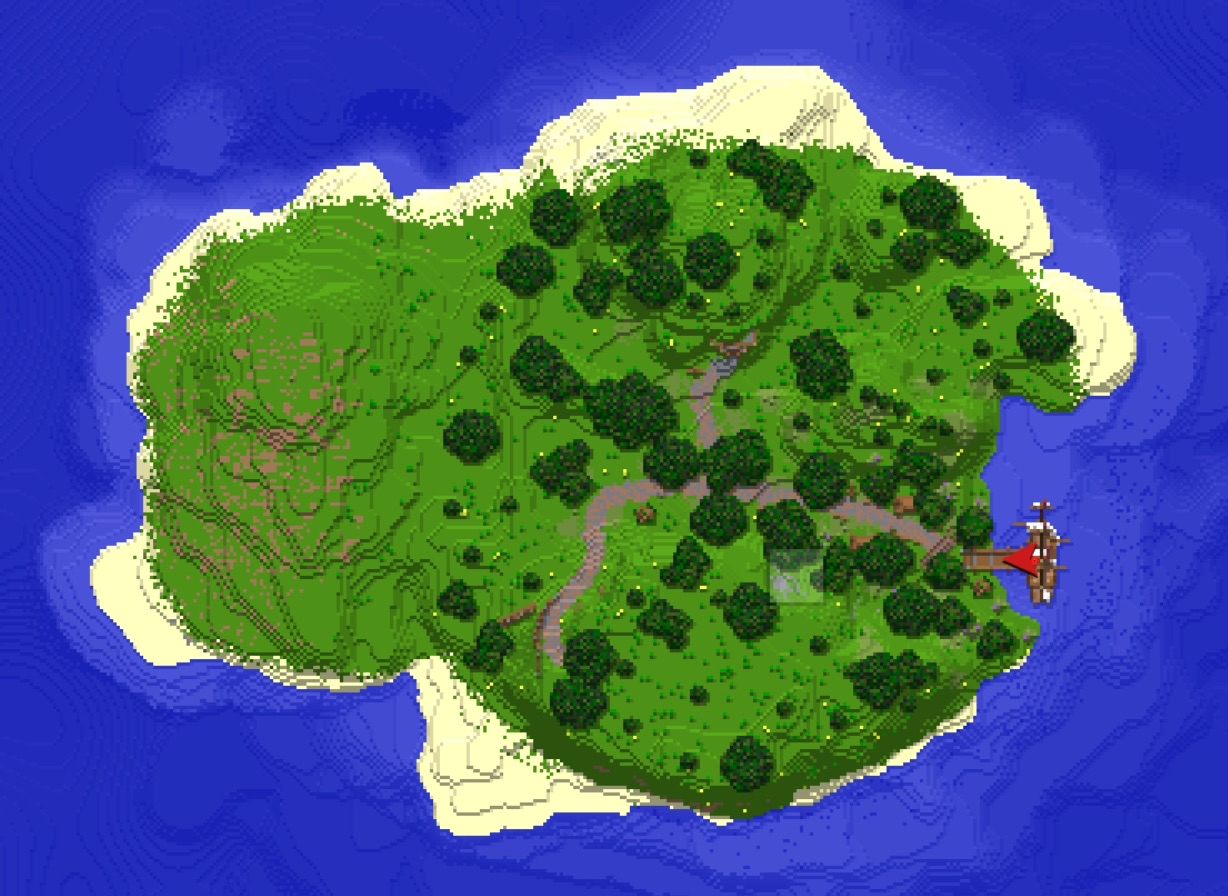
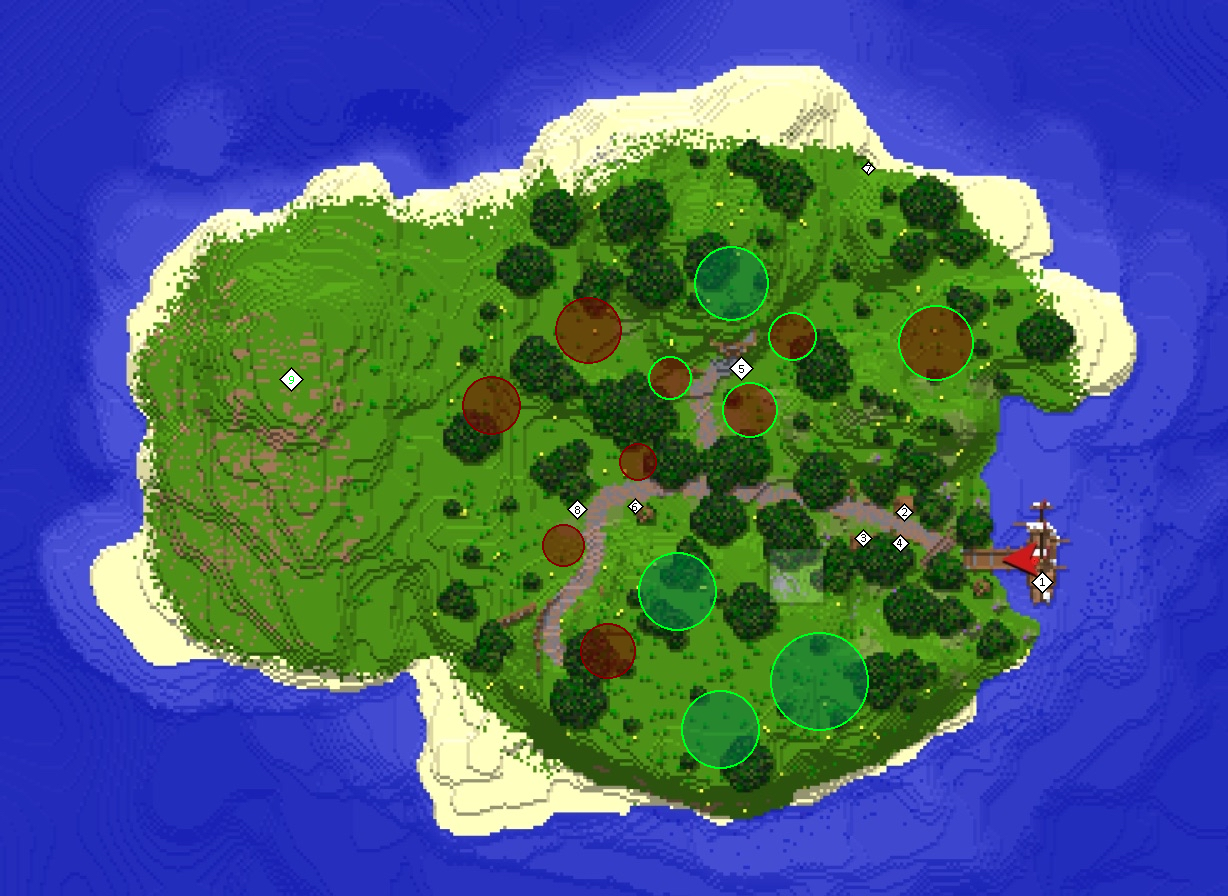
위르드 위키 섬 안내 npc 및 몬스터 데이터 추가, 지도 사진 업데이트(세르툼~변형된 플라텀)

diff --git a/wyrd_wiki_homepage/pages/island/island_data.js b/wyrd_wiki_homepage/pages/island/island_data.js
@@ -17,7 +17,27 @@ const ISLAND_DATA = [
         icon: 'island1.png',
         position: { x: 45, y: 41, tooltip: 'right' }, //  지도 상 위치 (추후 조정) 
         details: {
-            npcs: [] // NPC 정보 없음
+            npcs: [
+                { name: '항해사', coords: '-216 82 10 ①' },
+                { name: '낚시꾼', coords: '-162 80 -32 ②' },
+                { name: '아리아', coords: '-180 81 -98 ③' },
+                { name: '미식가', coords: '-127 80 10 ④' },
+                { name: '직업관리인(1차)', coords: '-55 87 25 ⑤' },
+                { name: '만물상', coords: '-36 80 45 ⑥' },
+                { name: '포션 상인', coords: '-6 80 65 ⑦' },
+                { name: '전리품 상인', coords: '1 80 49 ⑧' },
+                { name: '아르테, 오브세공사', coords: '-33 84 18 ⑨' },
+                { name: '메리, 길드 보급관, 재화 교환원, 칼론', coords: '-45 83 -8 ⑩' },
+                { name: '시험 감독관, 훈련 감독관', coords: '31 79 -75 ⑪' },
+                { name: '스폰', coords: '-17 85 123 ⑫' },
+                { name: '대장장이 조수, 대장장이', coords: '57 85 102 ⑬' },
+                { name: '창고지기', coords: '-26 79 39 ⑭' },
+                { name: '게시판', coords: '16 79 28, -16 79 50 ⑮' },
+                { name: '오즈웰', coords: '35 82 53 ⑯' },
+                { name: '무역 관리자, 카페 주인', coords: '164 81 -95 ⑰' },
+                { name: '라이딩 관리인', coords: '-51 86 73 ⑱' },
+                { name: '엘리시아', coords: '-50 82 -74 ⑲' }
+            ]
         }
     },
     {
@@ -37,7 +57,24 @@ const ISLAND_DATA = [
         },
         icon: 'island2.png',
         position: { x: 32, y: 49, tooltip: 'right' },
-        details: { npcs: [] }
+        details: {
+            npcs: [
+                { name: '항해사', coords: '161 90 151 ①' },
+                { name: '포션 상인, 전리품 상인', coords: '121 89 133 ②' },
+                { name: '낚시꾼', coords: '108 89 139 ③' },
+                { name: '게시판', coords: '123 89 144 ④' },
+                { name: '리네', coords: '70 89 91 ⑤' },
+                { name: '엘레오', coords: '39 94 131 ⑥' },
+                { name: '파란 꽃', coords: '107 84 28 ⑦' }
+            ],
+            monsters: [
+                { name: '위브', coords: '상세 지도 내 초록색 원' },
+                { name: '소심한 보어', coords: '상세 지도 내 갈색 원' },
+                { name: '트리소울', coords: '상세 지도 내 초록색+갈색 원' },
+                { name: '소심한 보어의 은신처 필드웨이브', coords: '20 94 132 ⑻' },
+                { name: '돌연변이 보어 서식지 필드웨이브', coords: '-62 103 92 ⑼' }
+            ]
+         }
     },
     {
         id: 'island3',
@@ -56,7 +93,23 @@ const ISLAND_DATA = [
         },
         icon: 'island3.png',
         position: { x: 38, y: 25, tooltip: 'right' },
-        details: { npcs: [] }
+        details: {
+            npcs: [
+                { name: '항해사', coords: '-242 100 144 ①' },
+                { name: '낚시꾼', coords: '-270 102 167 ②' },
+                { name: '전리품 상인, 포션 상인', coords: '-245 104 181 ③' },
+                { name: '게시판', coords: '-236 106 194 ④' },
+                { name: '로빈', coords: '-303 121 326 ⑤' },
+                { name: '와이먼', coords: '-367 113 281 ⑥' },
+                { name: '민들레', coords: '393 161 425 ⑦' }
+            ],
+            monsters: [
+                { name: '주황 버섯', coords: '상세 지도 내 주황색 원' },
+                { name: '겁쟁이 보어', coords: '상세 지도 내 갈색 원' },
+                { name: '가을 위브', coords: '상세 지도 내 빨간색 원' },
+                { name: '가을의 전율 필드웨이브', coords: '-344 107 328 ⑻' }
+            ]
+        }
     },
     {
         id: 'island4',
@@ -153,17 +206,34 @@ const ISLAND_DATA = [
         position: { x: 72, y: 65, tooltip: 'left' },
         details: {
             npcs: [
-                { name: '대장장이', coords: '677 73 254' },
-                { name: '전리품 상인', coords: '677 73 254' },
-                { name: '포션 상인', coords: '677 73 254' },
-                { name: '낚시꾼', coords: '646 72 243' },
-                { name: '멜', coords: '690 80 190' },
-                { name: '코스', coords: '629 73 183' },
-                { name: '아툰', coords: '631 73 197' },
-                { name: '테론', coords: '597 72 190' },
-                { name: '마테르', coords: '576 73 181' },
-                { name: '테르크', coords: '586 71 167' },
-                { name: '트레드', coords: '592 72 130' }
+                { name: '항해사', coords: '649 72 276 ①' },
+                { name: '대장장이, 전리품 상인, 포션 상인', coords: '677 73 254 ②' },
+                { name: '낚시꾼', coords: '646 72 243 ③' },
+                { name: '멜, 히프노', coords: '690 80 190 ④' },
+                { name: '코스', coords: '629 73 183 ⑤' },
+                { name: '아툰', coords: '631 73 197 ⑥' },
+                { name: '테론', coords: '597 72 190 ⑦' },
+                { name: '마테르', coords: '576 73 181 ⑧' },
+                { name: '테르크', coords: '586 71 167 ⑨' },
+                { name: '트레드', coords: '592 72 130 ⑩' },
+                { name: '착즙기', coords: '513 71 -92 ⑪' },
+                { name: '모렐', coords: '512 71 -108 ⑫' },
+                { name: '펜렐', coords: '516 71 -119 ⑫' },
+                { name: '로드', coords: '499 77 -113 ⑫' },
+                { name: '드람(숨겨진 이야기)', coords: '844 72 63 ⑬' }
+            ],
+            monsters: [
+                { name: '아라미르', coords: '주황색 원 1번' },
+                { name: '칼투스', coords: '초록색 원 2번' },
+                { name: '데저트 소울', coords: '붉은색 원 3번' },
+                { name: '샌드 크래그', coords: '빨간색 원 4번' },
+                { name: '록 크래그', coords: '회색 원 5번' },
+                { name: '살아있는 선인장 필드웨이브', coords: '509 71 171 초록색 6번' },
+                { name: '샌드크래그가 점거한 유적 필드웨이브', coords: '674 75 67 빨간색 7번' },
+                { name: '불길한 기운이 감도는 유적 필드웨이브', coords: '463 74 15 초록색 8번' },
+                { name: '모래 속 잠복자들 필드웨이브', coords: '574 73 -146 회색 9번' },
+                { name: '찬란한 오아시스 레임홀', coords: '초록색 10번' },
+                { name: '그라이온 레이드', coords: '초록색 11번' }
             ]
         }
     },
@@ -222,7 +292,24 @@ const ISLAND_DATA = [
         },
         icon: 'island11.png',
         position: { x: 23, y: 32, tooltip: 'right' },
-        details: { npcs: [] }
+        details: {
+            npcs: [
+                { name: '항해사', coords: '287 83 407 ①' },
+                { name: '전리품 상인, 포션 상인', coords: '②' },
+                { name: '로카, 데카', coords: '146 111 338 ③' },
+                { name: '루카', coords: '164 111 326 ④' }
+            ],
+            monsters: [
+                { name: '마그마 소울', coords: '붉은색 원 1번' },
+                { name: '파이어 래빗', coords: '빨간색 원 2번' },
+                { name: '재의 정령', coords: '검은색 원 3번' },
+                { name: '헬베르데', coords: '초록색 원 4번' },
+                { name: '안트룸', coords: '주황색 원 5번' },
+                { name: '용암지대 필드웨이브', coords: '46 88 393 붉은색 6번' },
+                { name: '거대한 고목아래 필드웨이브', coords: '91 84 223 붉은색 7번' },
+                { name: '사냥개들의 쉼터 필드웨이브', coords: '159 80 326 붉은색 8번' }
+            ] 
+        }
     },
     {
         id: 'island12',
@@ -242,7 +329,27 @@ const ISLAND_DATA = [
         },
         icon: 'island12.png',
         position: { x: 25, y: 65, tooltip: 'right' },
-        details: { npcs: [] }
+        details: {
+            npcs: [
+                { name: '항구', coords: '-227 67 97 ①' },
+                { name: '전리품 상인, 포션 상인, 낚시꾼', coords: '-196 66 95 ②' },
+                { name: '대장장이', coords: '-149 68 82 ③' },
+                { name: '카논', coords: '-145 69 107 ④' },
+                { name: '투스', coords: '-48 63 86 ⑤' },
+                { name: '리샘', coords: '-14 61 87 ⑥' },
+                { name: '도미닉', coords: '141 64 131 ⑦' },
+                { name: '제노크', coords: '145 64 142 ⑧' },
+                { name: '휘센', coords: '144 62 154 ⑨' },
+                { name: '노쇠한 직업 관리인', coords: '143 62 163 ⑩' }
+            ],
+            monsters: [
+                { name: '설원 래빗', coords: '파란색 원 1번' },
+                { name: '스노우 렘', coords: '회색 원 2번' },
+                { name: '가시 곰', coords: '노란색 원 3번' },
+                { name: '스노우 골렘', coords: '주황색 원 4번' },
+                { name: '판초 두른 그림자', coords: '붉은색 원 5번' }
+            ]
+        }
     },
     {
         id: 'island13',
@@ -278,7 +385,24 @@ const ISLAND_DATA = [
         },
         icon: 'island14.png',
         position: { x: 15, y: 48, tooltip: 'right' },
-        details: { npcs: [] }
+        details: {
+            npcs: [
+                { name: '항구', coords: '161 90 151 ①' },
+                { name: '포션 상인, 전리품 상인', coords: '121 89 133 ②' },
+                { name: '낚시꾼', coords: '108 89 139 ③' },
+                { name: '안야', coords: '68 92 87 ④' },
+                { name: '발리메', coords: '25 91 19 ⑤' },
+                { name: '레라스', coords: '37 96 136 ⑥' },
+                { name: '할', coords: '28 110 167 ⑦' }
+            ],
+            monsters: [
+                { name: '일렁이는 트리 소울', coords: '주황색 원 1번' },
+                { name: '흉포한 보어', coords: '파란색 원 2번' },
+                { name: '변형된 위브', coords: '초록색 원 3번' },
+                { name: '클레노디움 하급 연구원', coords: '핑크색 원 4번' },
+                { name: '변형된 샌드 크래그', coords: '검은색 원 5번' }
+            ]
+        }
     },
     {
         id: 'island15',

diff --git a/wyrd_wiki_homepage/pages/island/island_main.js b/wyrd_wiki_homepage/pages/island/island_main.js
@@ -119,7 +119,7 @@ document.addEventListener('DOMContentLoaded', () => {
                 if (island.requirements.gathering_Lv) requirementsHtml += `<strong>등장 채집물</strong>: ${island.requirements.gathering_Lv}<br>`;
                 requirementsHtml += '</div>';
             }
-            if (island.details.npcs && island.details.npcs.length > 0) {
+            /*if (island.details.npcs && island.details.npcs.length > 0) {
                  requirementsHtml += '<div class="requirements">';
                  requirementsHtml += `<strong>NPC 정보 (${island.name})</strong>:`;
                  requirementsHtml += '<ul>';
@@ -137,7 +137,7 @@ document.addEventListener('DOMContentLoaded', () => {
                      requirementsHtml += `<li>${monster.name}: ${monster.coords}</li>`;
                  });
                  requirementsHtml += '</ul></div>';
-            }
+            } */
 
 
             cardLink.innerHTML = `
